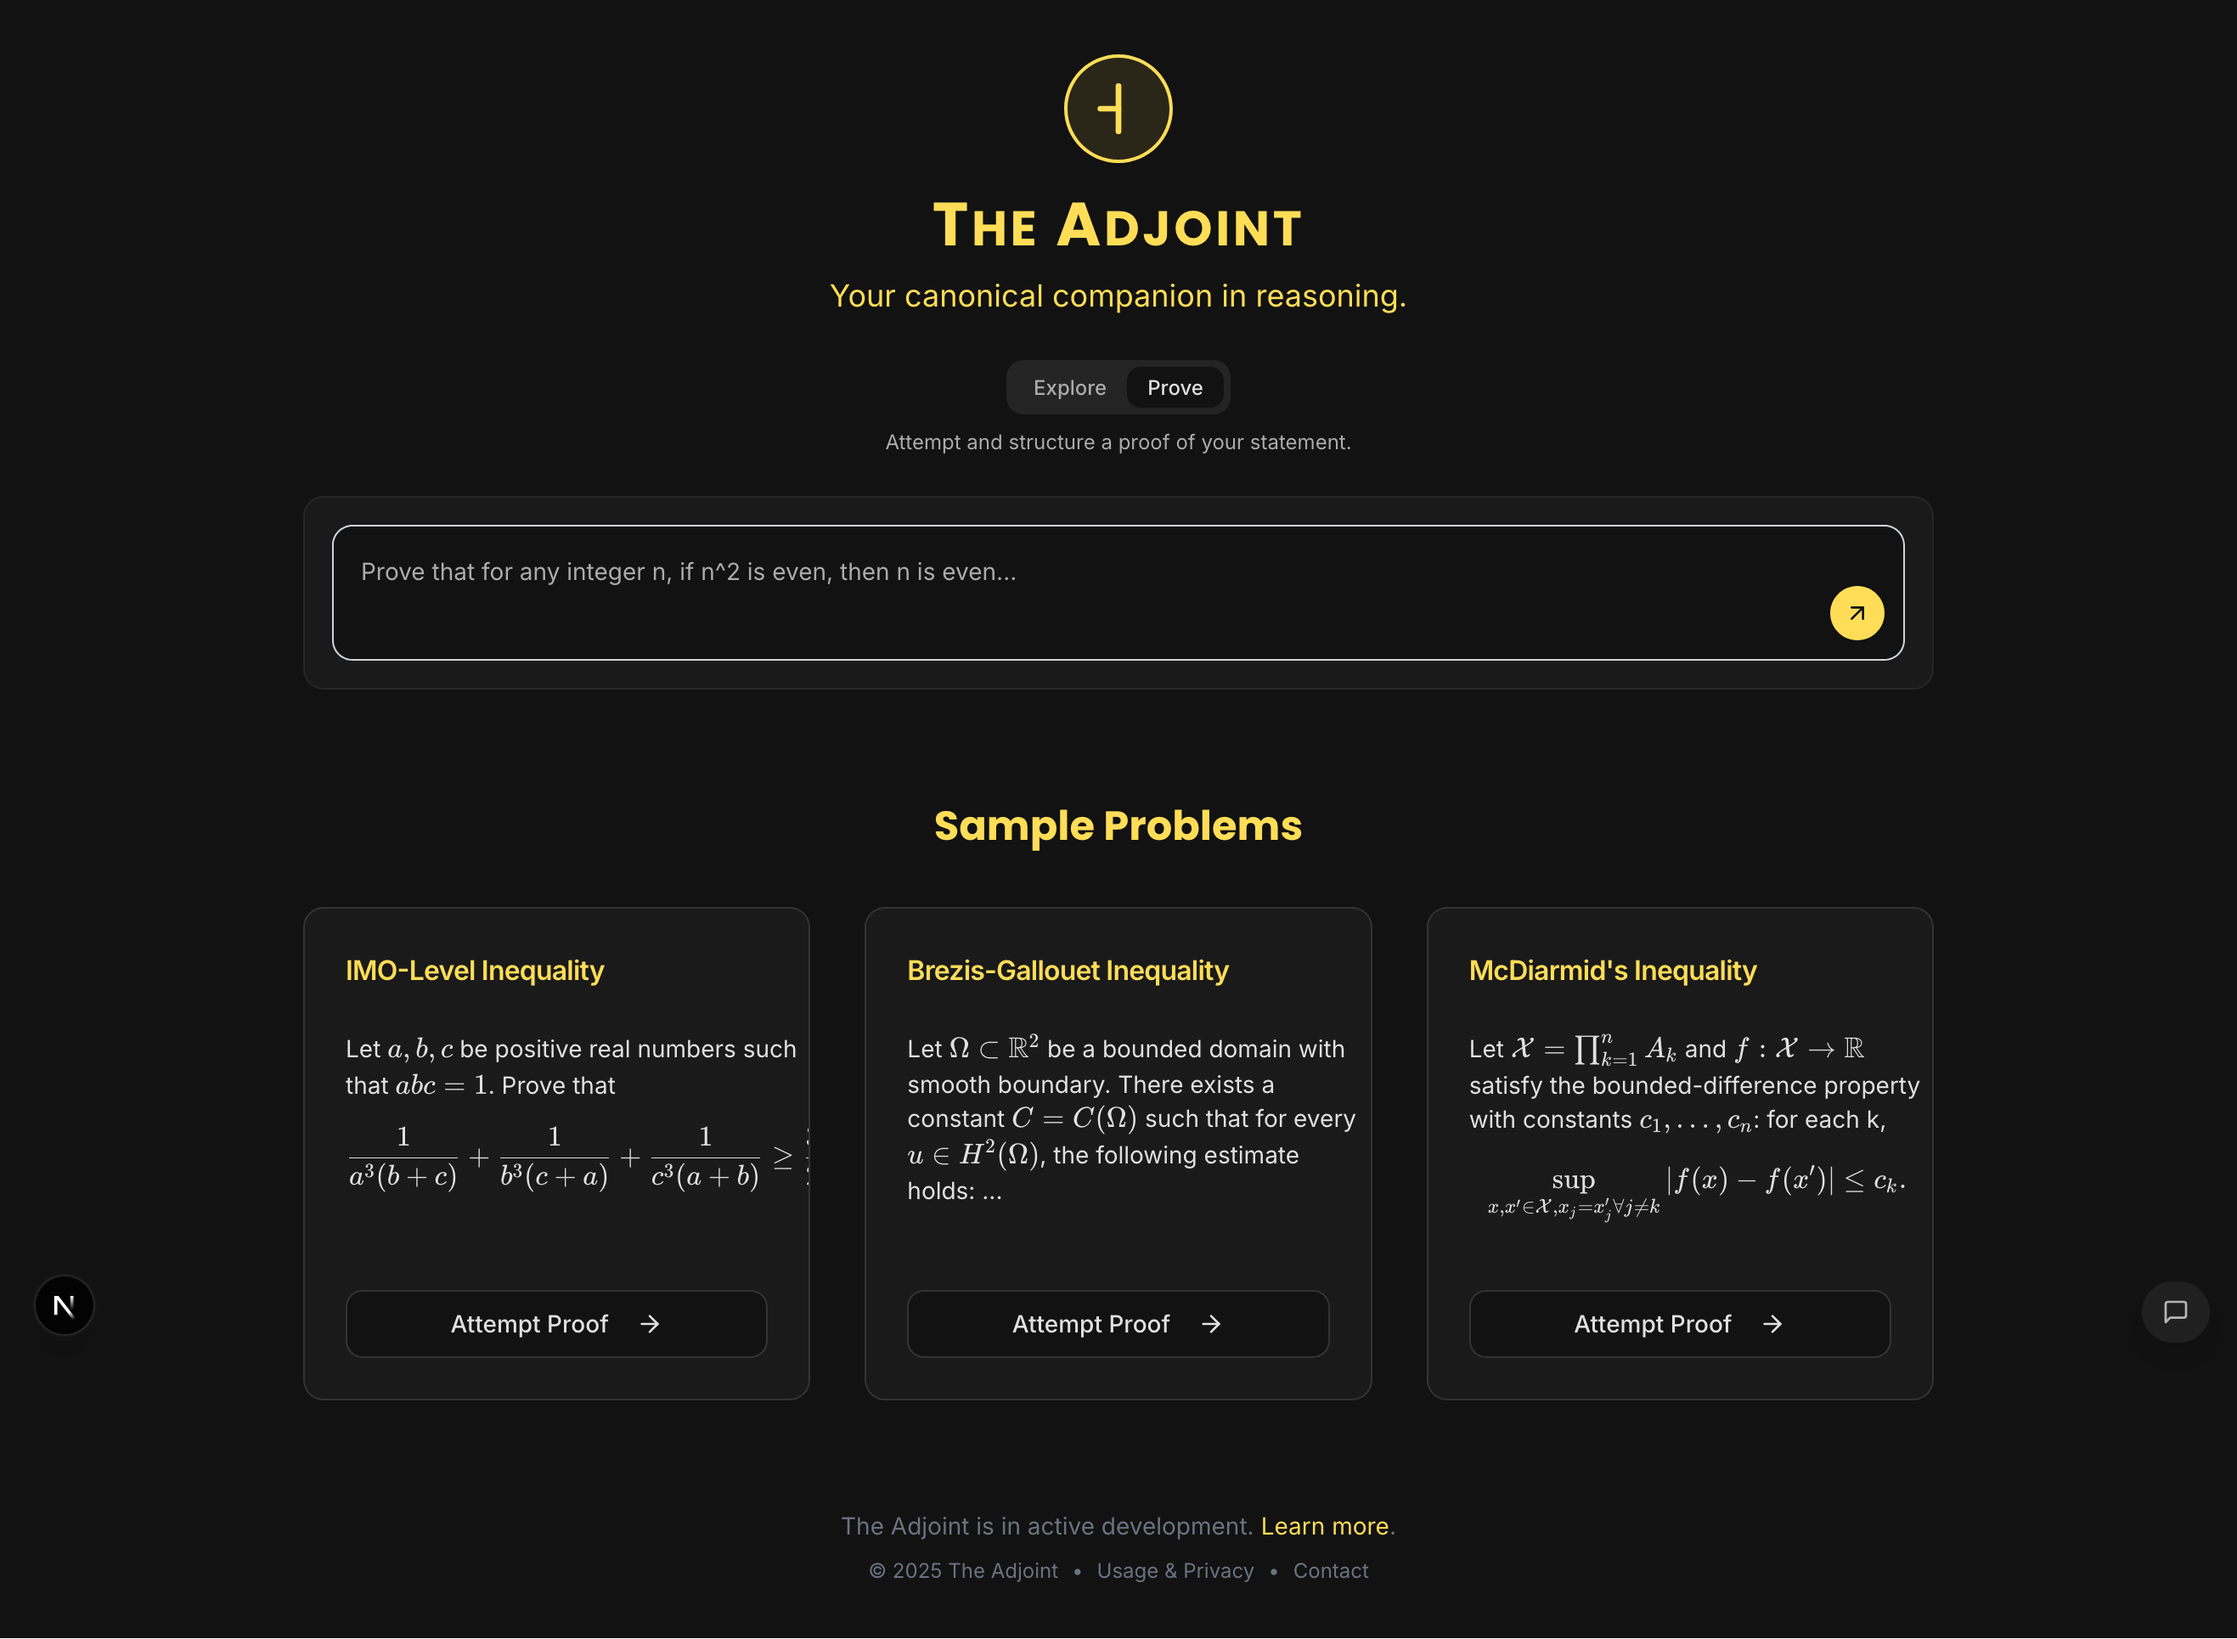
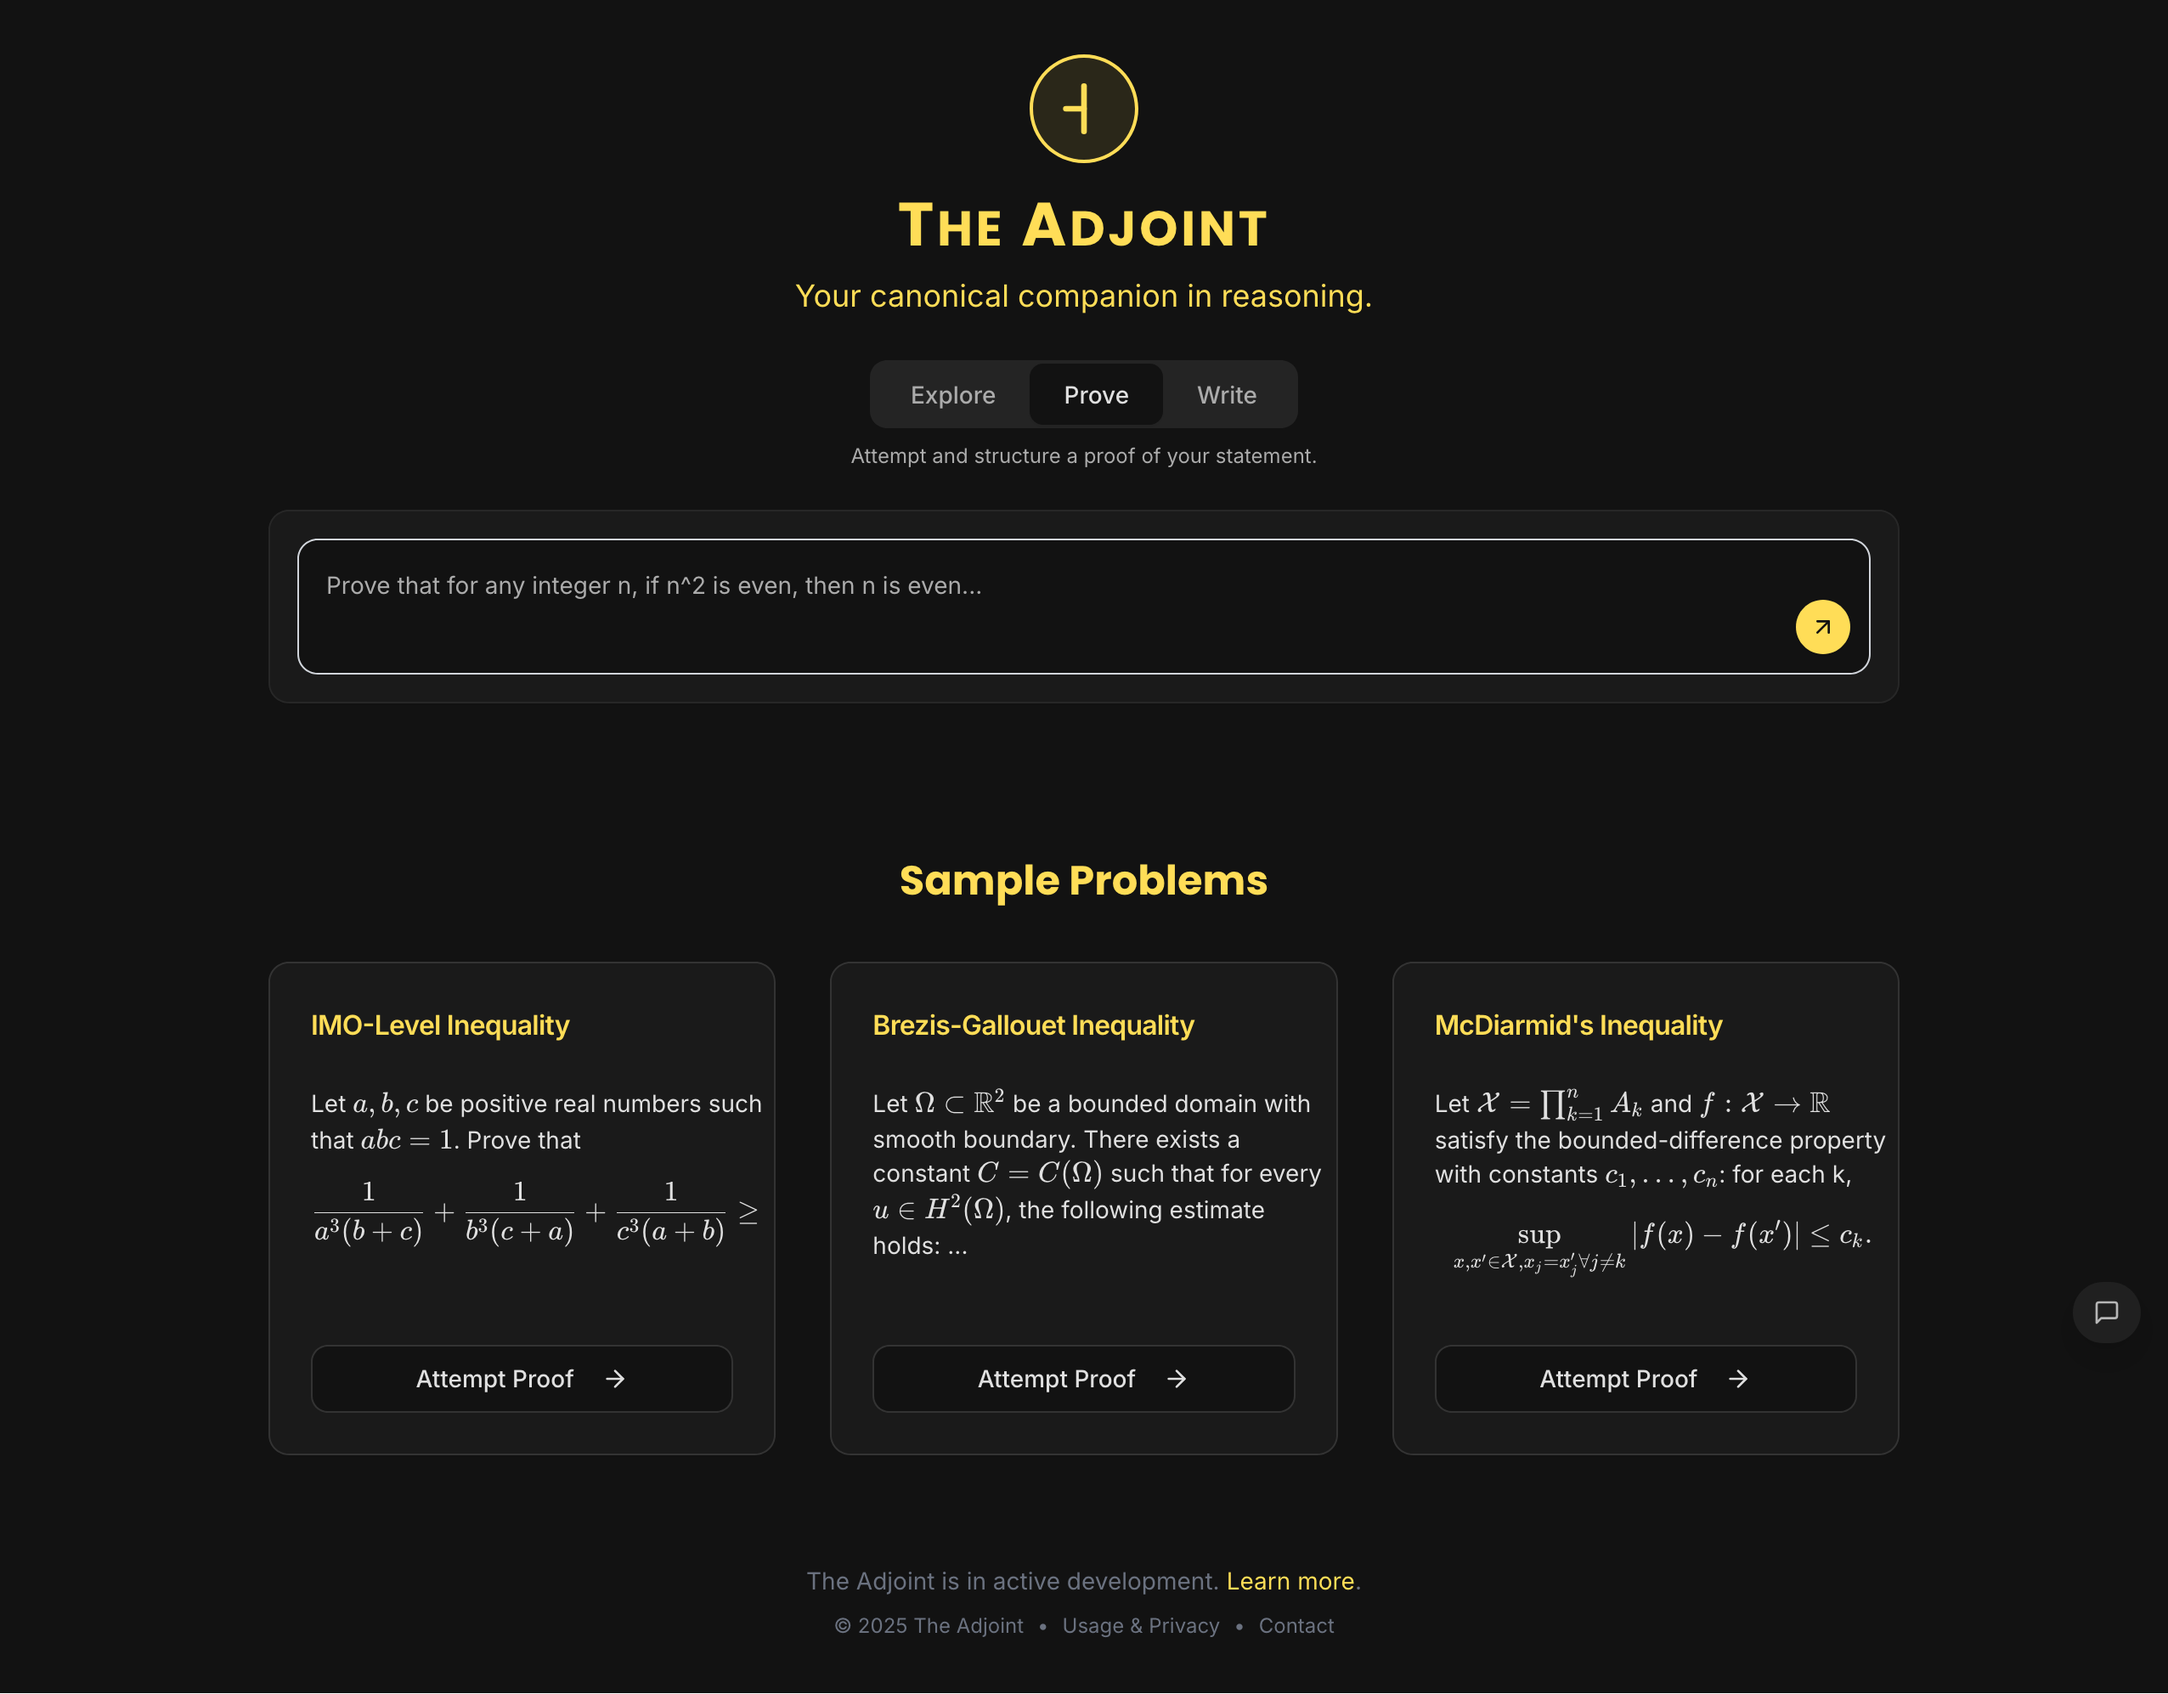
update screenshots and readme

diff --git a/README.md b/README.md
@@ -6,7 +6,7 @@ It’s built around a simple workflow:
 
 1. **Explore**: to turn a problem or a question into candidate statements together with their assumptions.
 2. **Prove**: to transform a first proof into a structured proof, decomposed into smaller lemmas, that you can easily iterate on.
-
+3. **Write**: to write and iterate on mathematical notes, check and review statements. 
 
 ![The Adjoint](docs/images/homepage.png)
 ---
@@ -37,7 +37,16 @@ Keep a **version history** so you can revisit earlier attempts.
 
 And last but not least, **Export to LaTeX** (`proof.tex`).
 
----
+### Workspace mode to write and review mathematical notes
+
+Write a mathematical document with direct in-context actions (chat, prove, review,...)
+![Workspace](docs/images/workspace.png)
+
+Review notes artifacts (lemmas, propositions, theorems,...). Those are automatically extracted through a regex heuristic if in proper LaTeX environment.
+![Workspace Artifact](docs/images/review.png)
+
+Check artifact consistency and send to the prover mode if needed.
+![Workspace Review](docs/images/review_result.png)
 
 ## Quick start
 
@@ -54,7 +63,7 @@ npm install
 
 ### Configure an LLM provider
 
-Create `adjoint/.env.local` where you should specify either Gemini or OpenAI API keys.
+Create `adjoint/.env.local` where you should specify either Gemini or OpenAI API keys. 
 
 **Google (Gemini)**
 
@@ -77,44 +86,6 @@ npm run dev
 ```
 
 Then open the Adjoint at **http://localhost:9002** (or whatever port you configured).
-
----
-
-## Optional app unlock gate (recommended for public deployments)
-
-The Adjoint includes an **optional password gate** intended for deployments on the internet.
-
-**Defaults**
-
-- Local development (`npm run dev`): **disabled** (no password required)
-- Production (`NODE_ENV=production`): **enabled** (password required)
-
-### Enable / configure (production)
-
-Set an unlock password in your deployment environment:
-
-```bash
-APP_UNLOCK_PASSWORD=your-strong-password
-```
-
-If `APP_UNLOCK_PASSWORD` is missing in production, the app will **fail closed** (users will be redirected to `/unlock` but unlocking will error until the password is configured).
-
-### Disable (public deployment)
-
-To make a production deployment public, explicitly disable the gate:
-
-```bash
-APP_UNLOCK_ENABLED=FALSE
-```
-
-### Enable locally (optional)
-
-If you want to test the gate locally:
-
-```bash
-APP_UNLOCK_ENABLED=TRUE
-APP_UNLOCK_PASSWORD=dev-password
-```
 
 ---
 
